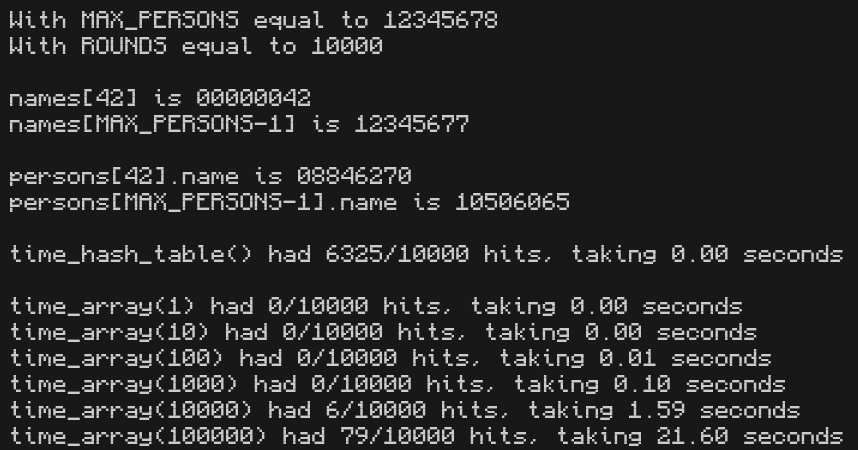
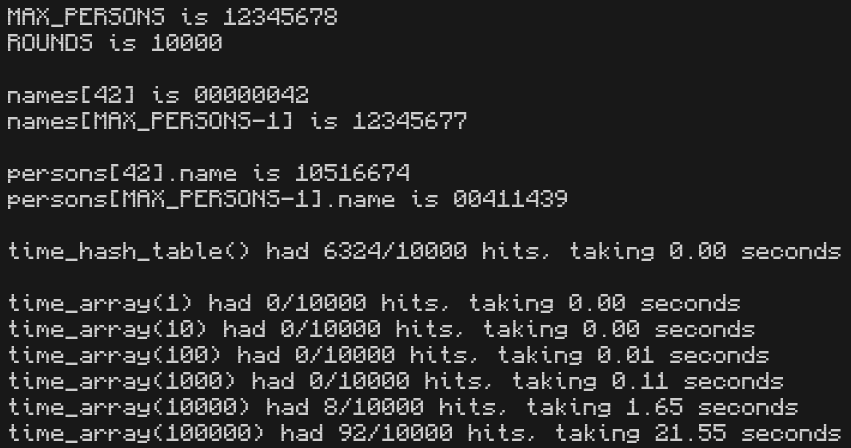
Shorten printing MAX_PERSONS and ROUNDS

diff --git a/profile.c b/profile.c
@@ -149,8 +149,8 @@ static size_t pow10_size(size_t count) {
 int main(void) {
 	srand(time(NULL));
 
-	printf("With MAX_PERSONS equal to %d\n", MAX_PERSONS);
-	printf("With ROUNDS equal to %d\n\n", ROUNDS);
+	printf("MAX_PERSONS is %d\n", MAX_PERSONS);
+	printf("ROUNDS is %d\n\n", ROUNDS);
 
 	// Makes sure names[42] will be "00000042"
 	for (size_t p = 0; p < MAX_PERSONS; p++) {
